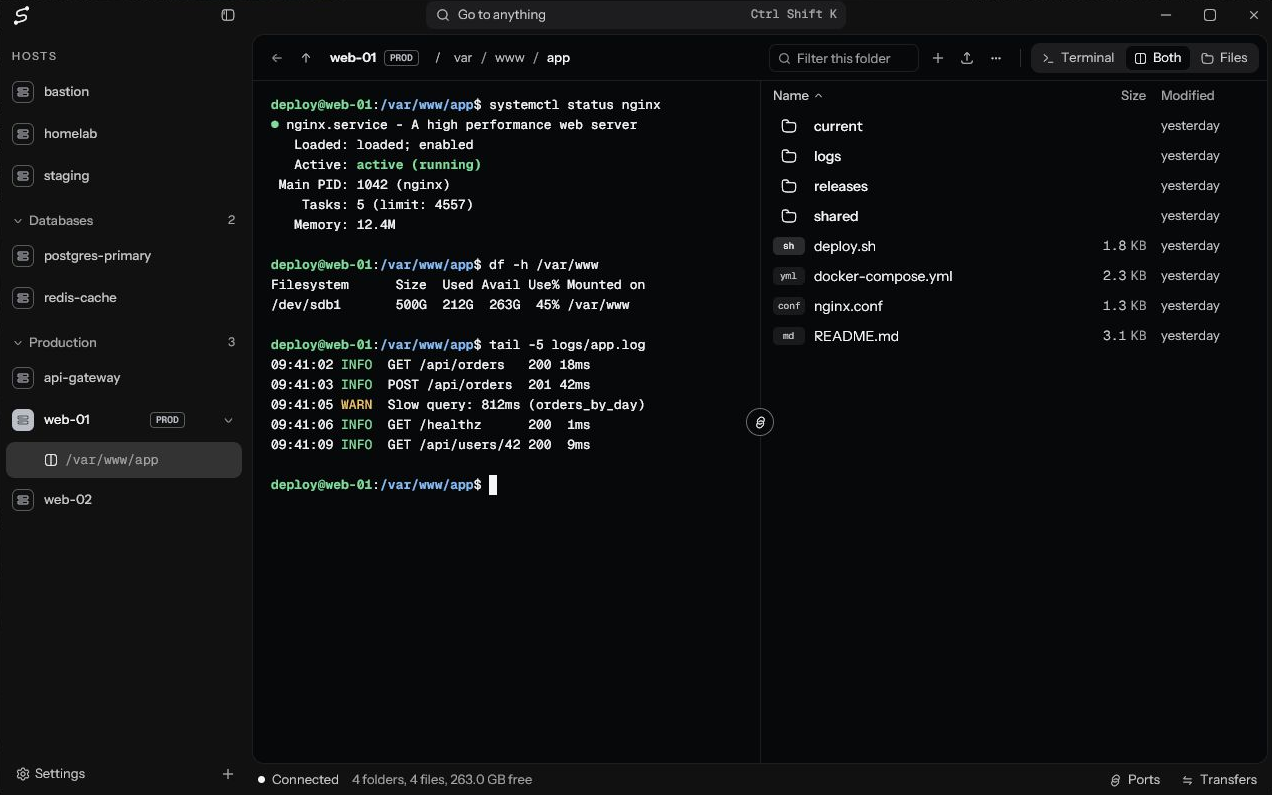
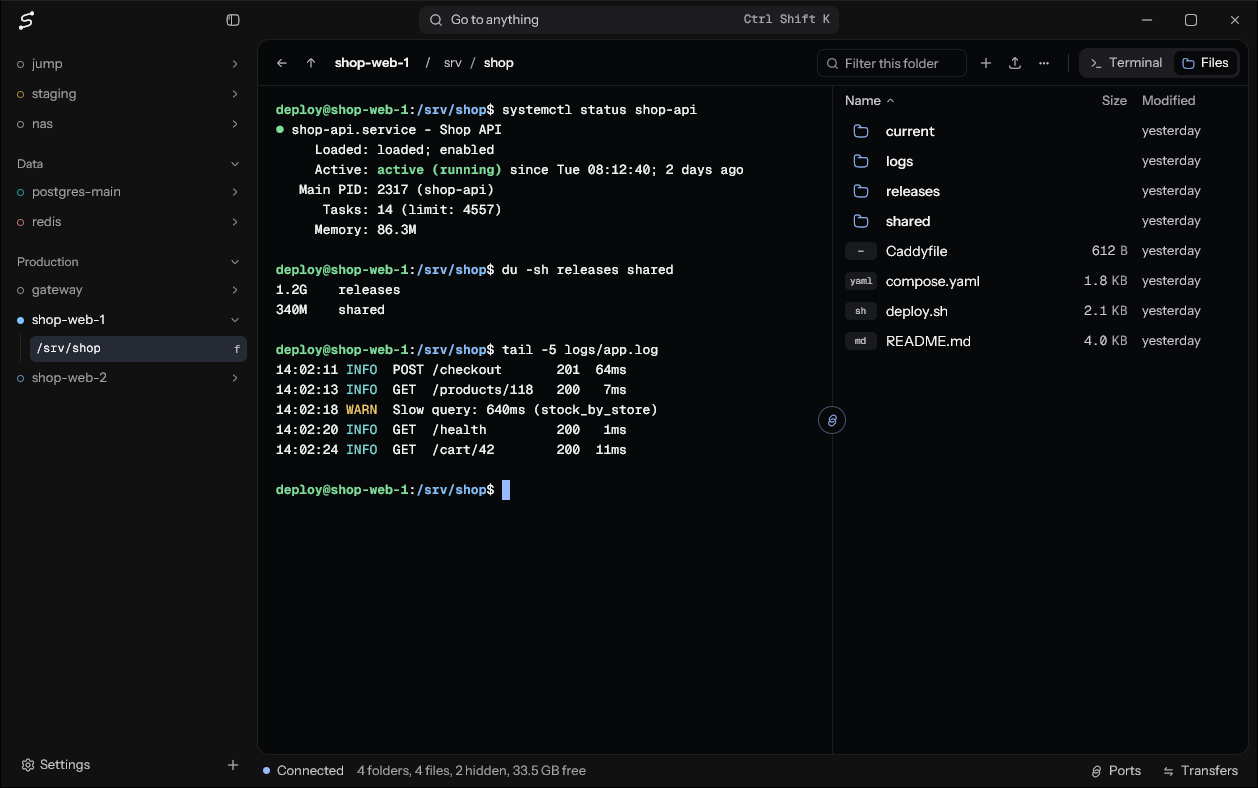
docs: persistent terminals, new screenshot

diff --git a/README.md b/README.md
@@ -4,6 +4,7 @@ ssh and sftp client for Windows written in Rust with [gpui](https://gpui.rs).
 
 ![A terminal and the files of its folder side by side, with hosts grouped in the sidebar](docs/both.png)
 
+- Terminals keep running when you close the app, and you can pick them up from another machine (needs tmux on the server)
 - Terminal, alone or next to its SFTP browser
 - Tabs and split terminals share one SSH connection per host. Tabs reopen when you start the app again
 - Group and reorder hosts in the sidebar
@@ -50,3 +51,4 @@ On the server:
 | What                                                                                           | Where                  |
 | ---------------------------------------------------------------------------------------------- | ---------------------- |
 | Screenshots and files pasted or dropped on a terminal (removed at the next paste after 7 days) | `~/.cache/shcp/paste/` |
+| Running terminals, in memory until the server restarts                                         | tmux socket `shcp`     |
